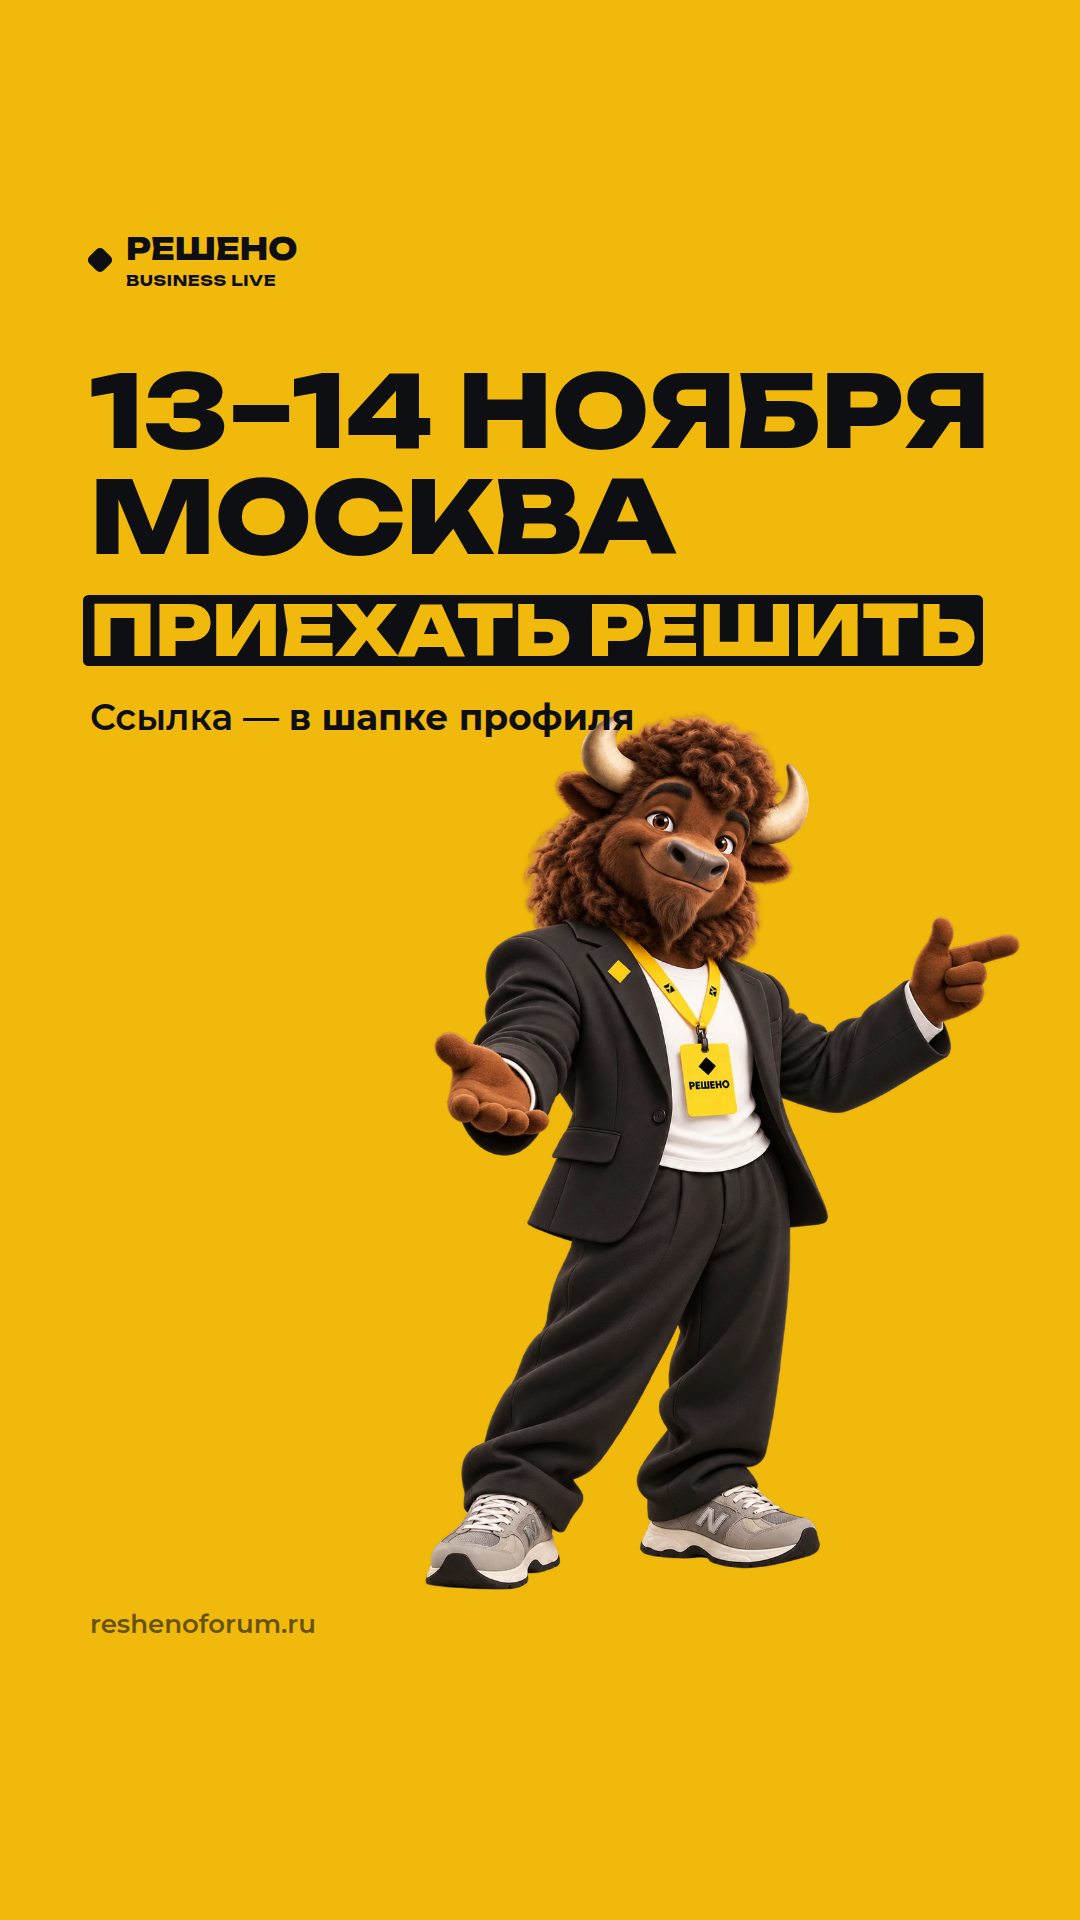
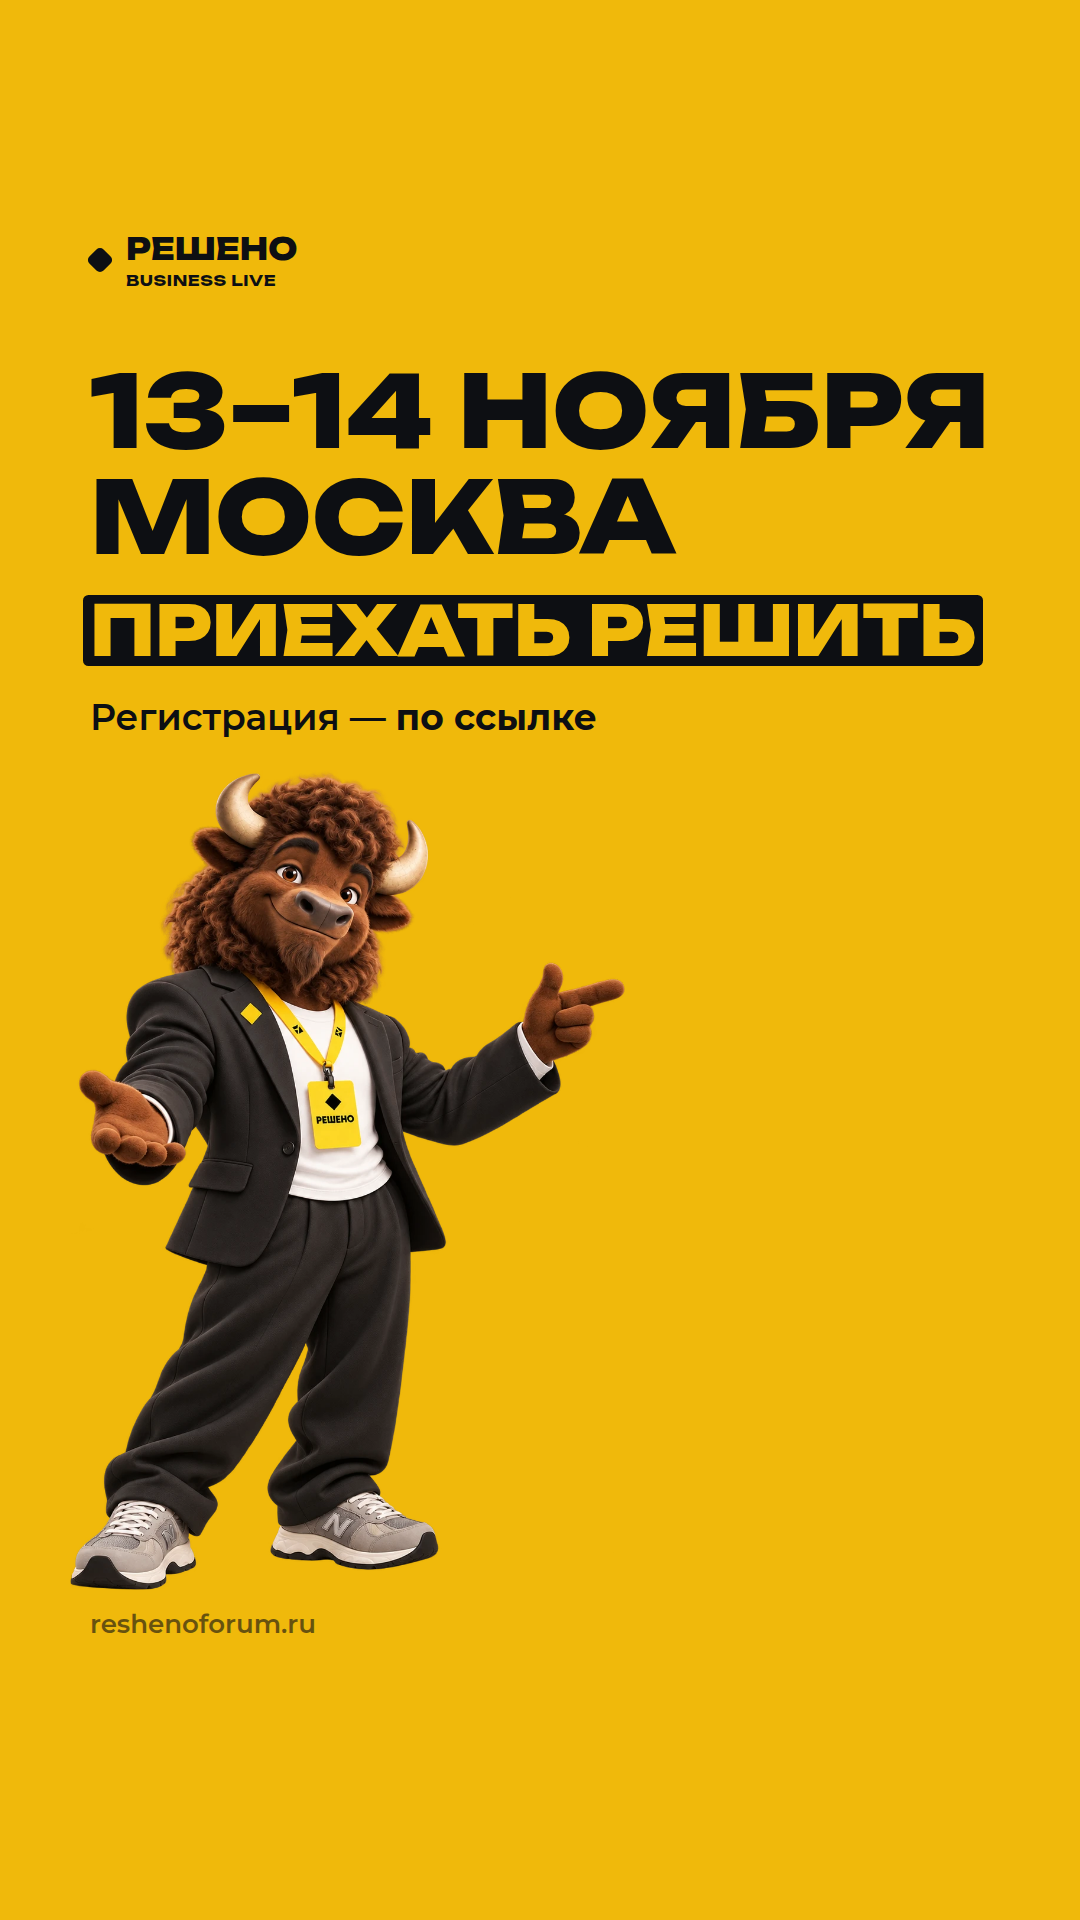
Highlights story 9: mascot on the left pointing at the link sticker spot
Claude-Session: https://claude.ai/code/session_015DfynR8ViCbDyQMuNVS5SH

Changed region(s): [[0.0611, 0.3438, 0.9472, 0.8438]]

diff --git a/content/stories-o-nas/README.md b/content/stories-o-nas/README.md
@@ -12,6 +12,6 @@
 | 06 | Кто в зале | Фото + «200–300 человек. Специально мало» |
 | 07 | Знакомства | Business Match, зубр с телефоном |
 | 08 | Результат | Фото + «Приезжаете с вопросом. Уезжаете с планом» |
-| 09 | Призыв | «13–14 ноября, Москва. Приехать решить» + зубр · **добавить стикер-ссылку на reshenoforum.ru** |
+| 09 | Призыв | «13–14 ноября, Москва. Приехать решить», зубр слева указывает вправо · **стикер-ссылку на reshenoforum.ru поставить туда, куда он показывает** (справа, чуть выше середины экрана) |
 
-Стикеры добавлять в приложении: в 01 — опрос, в 09 — ссылка (ставить в нижнюю половину, над подписью). Исходник: `content/_kit/o-nas.mjs` → `node render.mjs o-nas.mjs`.
+Стикеры добавлять в приложении: в 01 — опрос, в 09 — ссылка (справа от зубра, на уровне его руки). Исходник: `content/_kit/o-nas.mjs` → `node render.mjs o-nas.mjs`.
